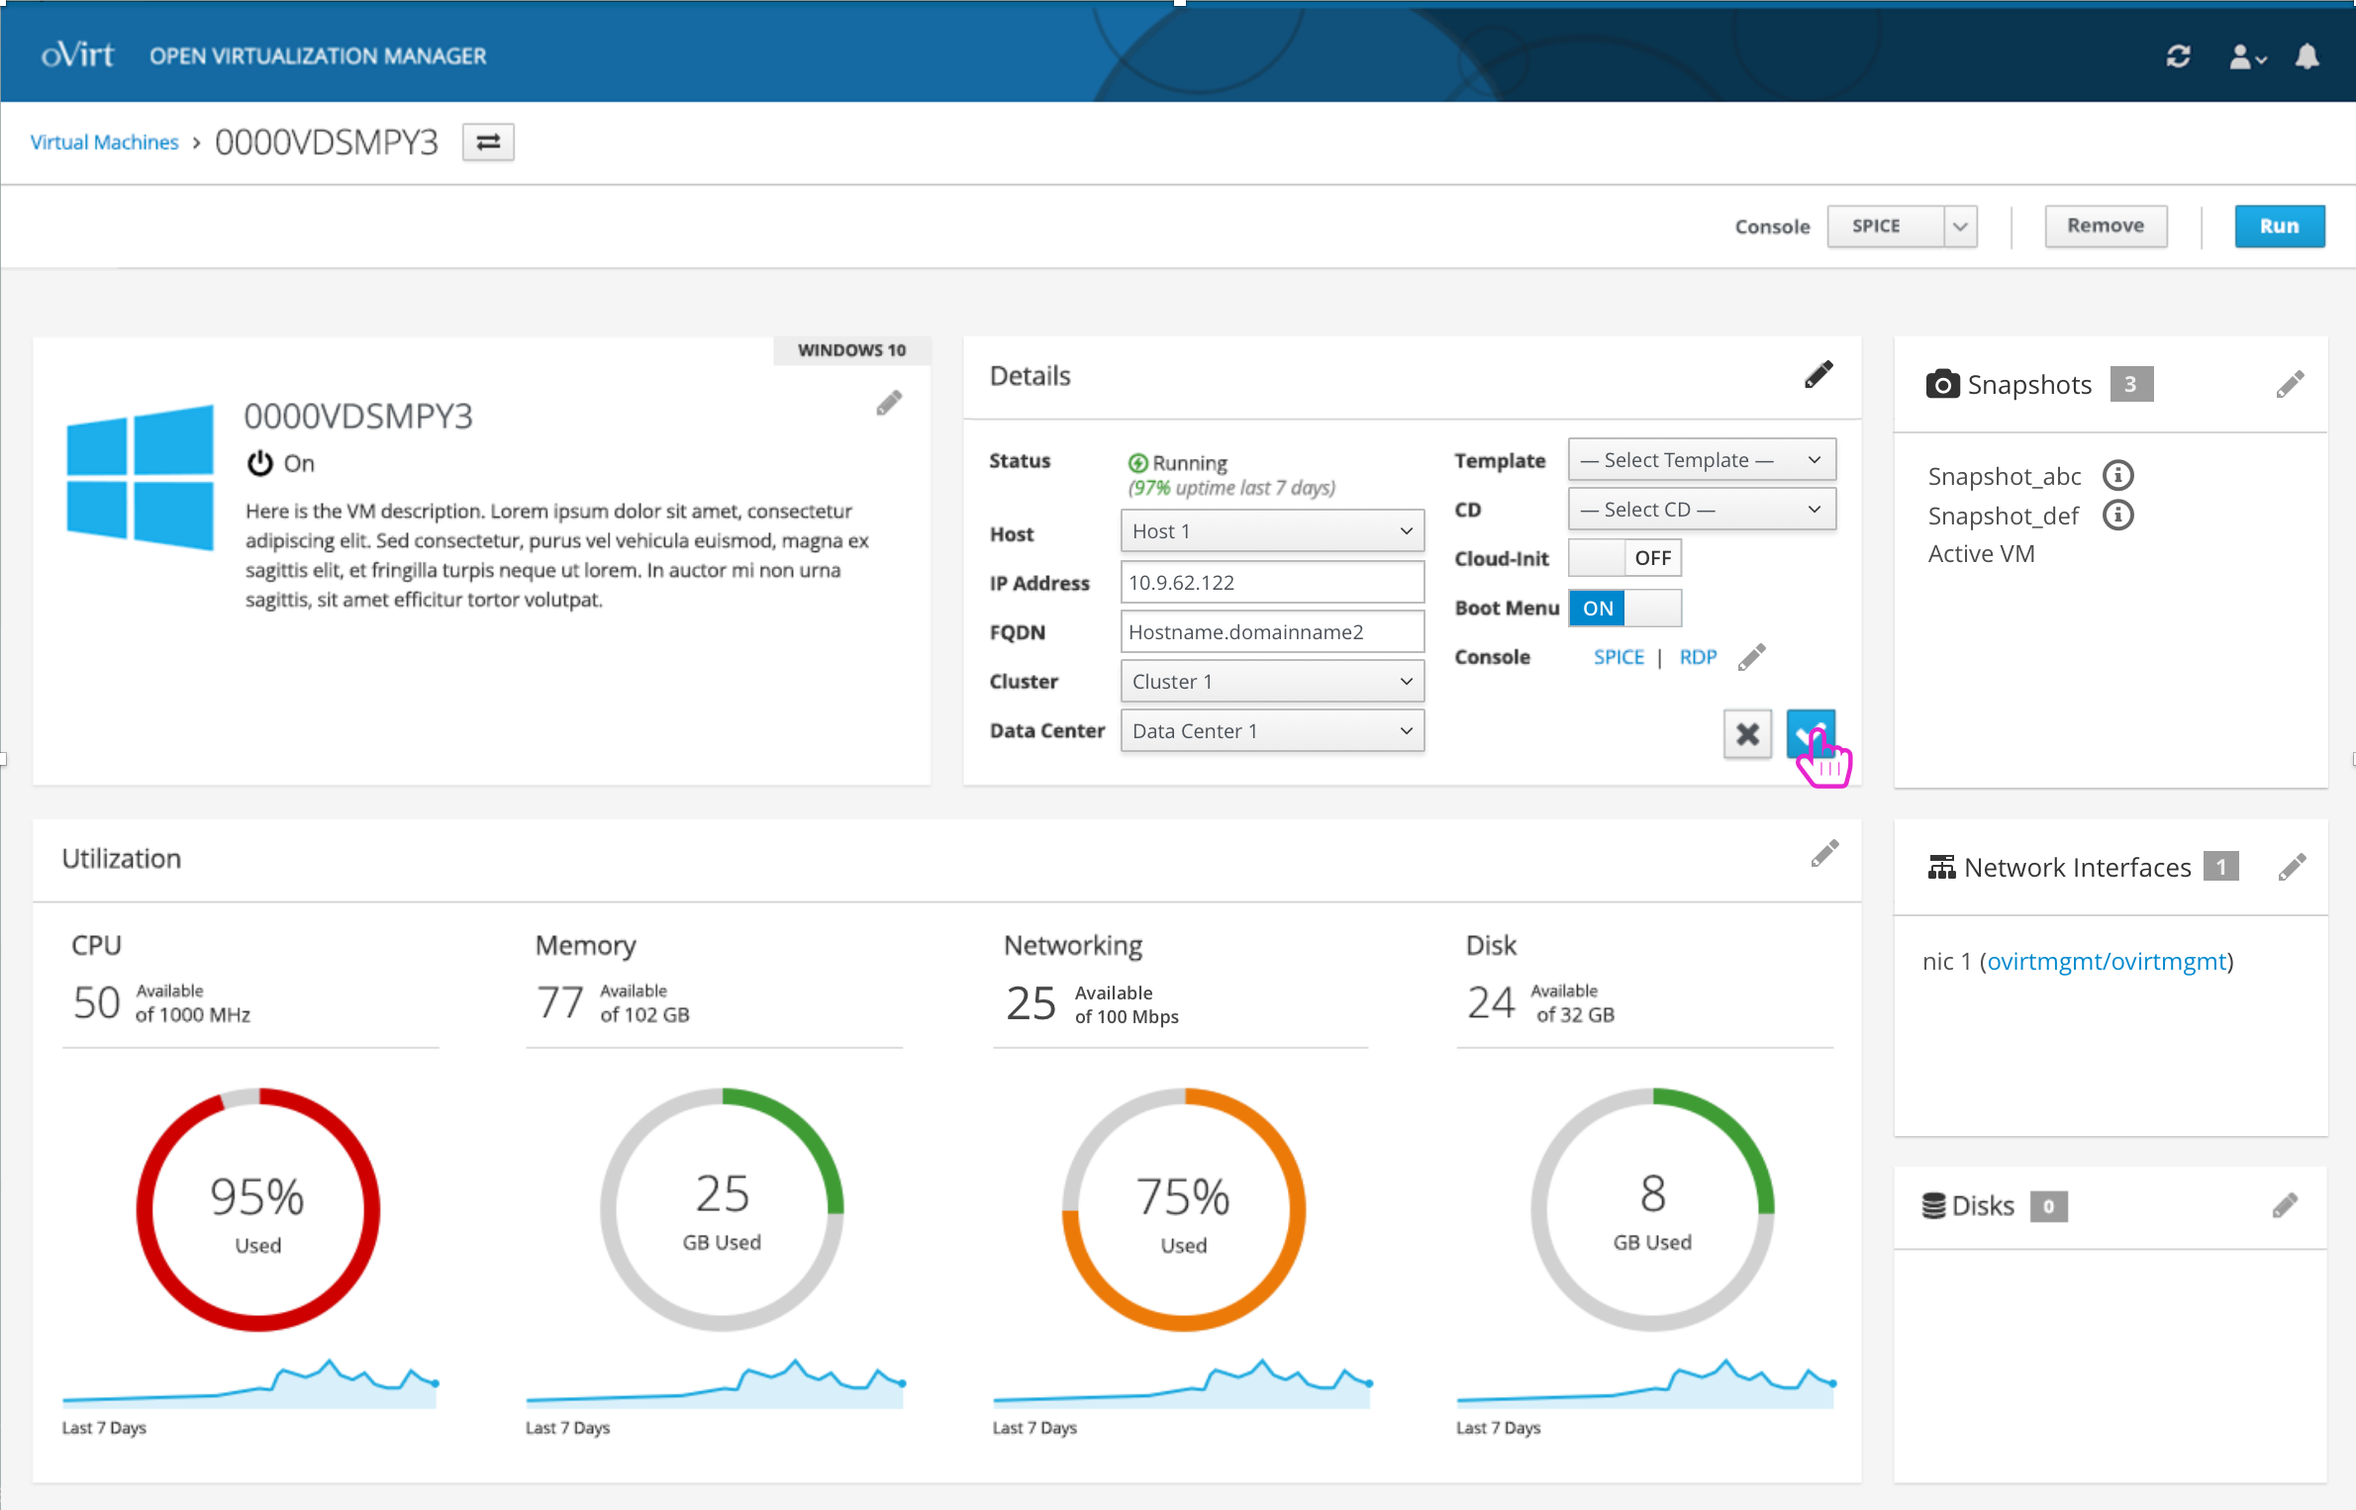
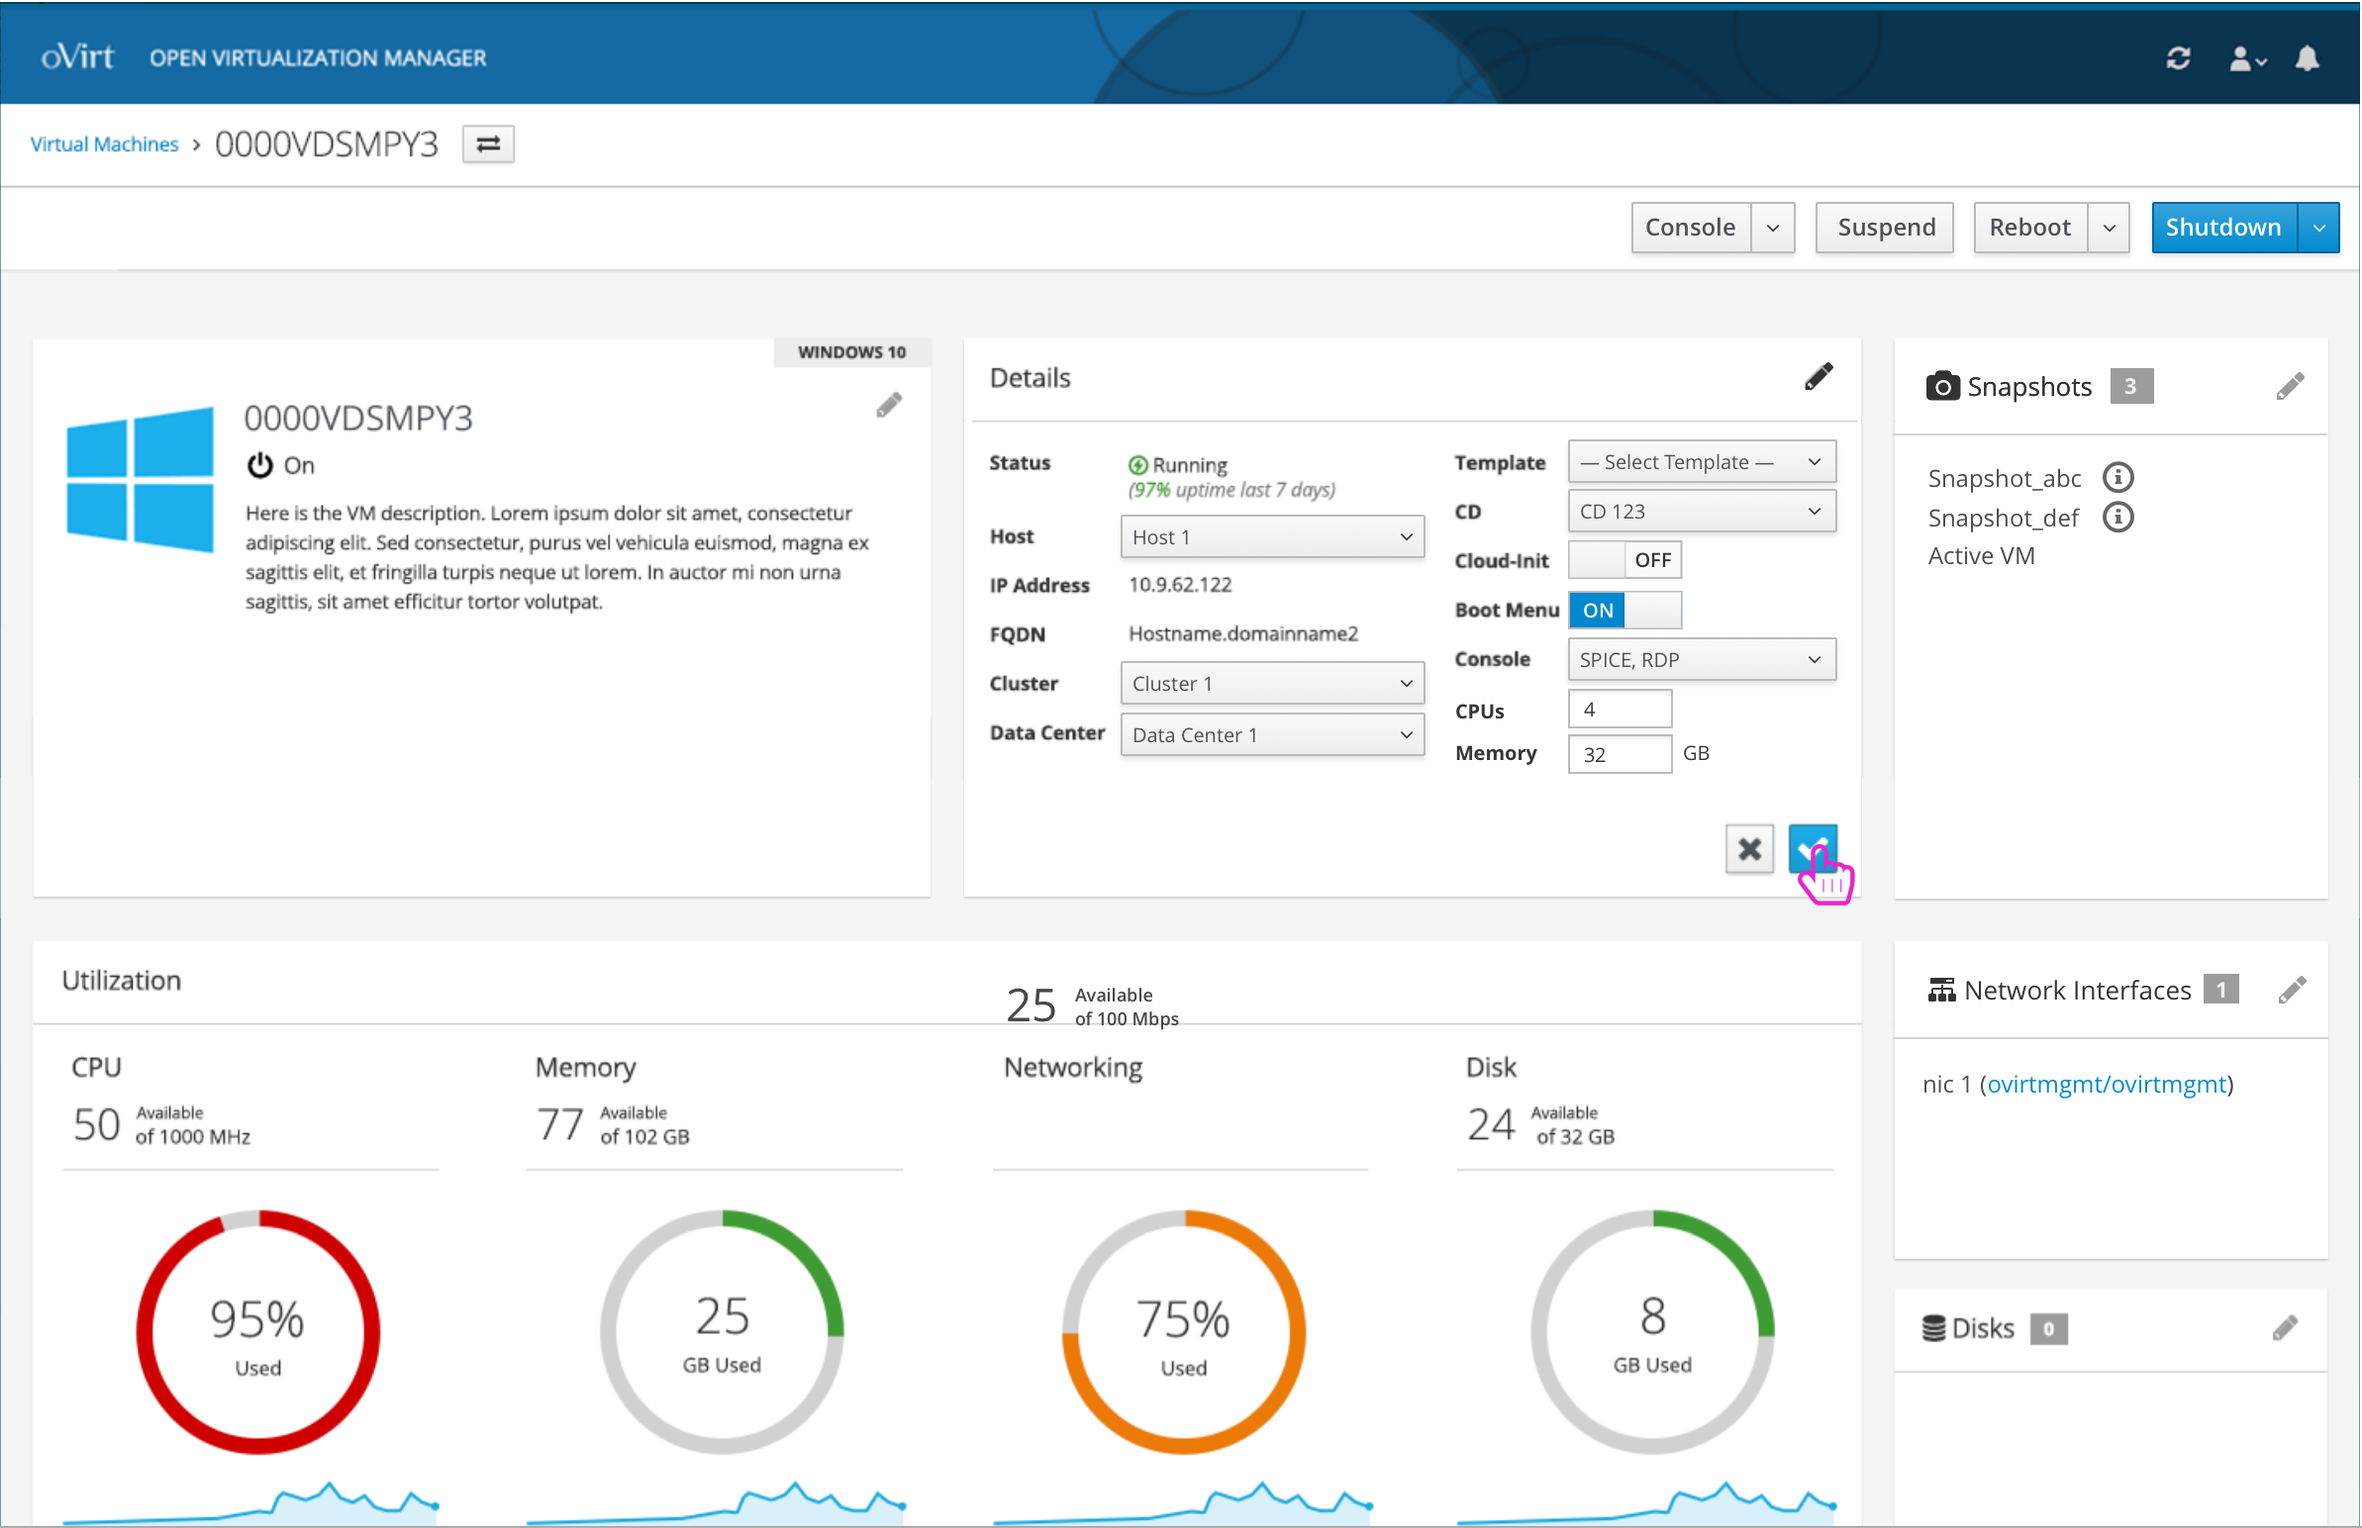
Updates to basic editing of VM design: - Moving editing of CPU and RAM from utilization area to the details card. - Adding concept of next-run configuration changes.

diff --git a/user-portal/edit-virtual-machine.md b/user-portal/edit-virtual-machine.md
@@ -6,11 +6,11 @@ Editing the name and description is contained in the first card:
 ![editvm](img/edit-vm.png)
 
 ### Edit Basic Details
-Editing the basic details about the VM is in the 2nd card:
+Editing the basic details about the VM is in the 2nd card. This includes changing how much CPU and Memory resources should be given to this VM:
 ![editvmbasic](img/edit-vm-basic.png)
 
-### Edit CPU and Memory
-The edit icon can be used on the Utilization card to define how much CPU and Memory resources should be given to this VM.
-![editvmcpumem](img/edit-vm-cpu-mem.png)
+### Next Run Configuration Changes
+In come cases, edits won't be applied until the next run of the VM. The user will be notified via a confirmation modal along with a notification until a reboot is done.
+![nextrunconfirmation](img/next-run-confirmation.png)
 
-![editvmcpumemmodal](img/edit-vm-cpu-mem-modal.png)
+![nextrunnotification](img/next-run-notification.png)
